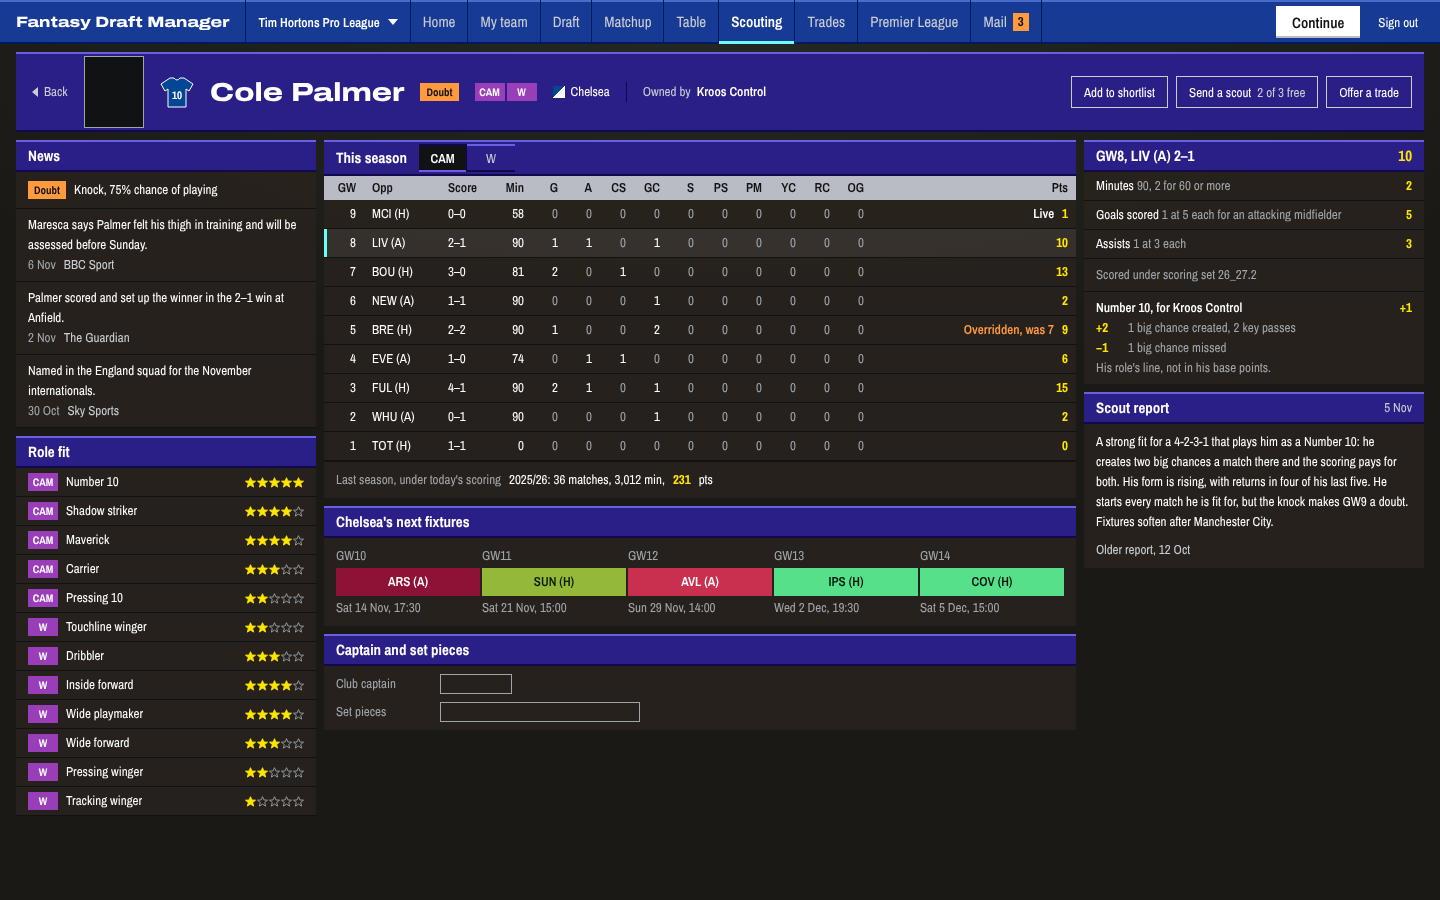
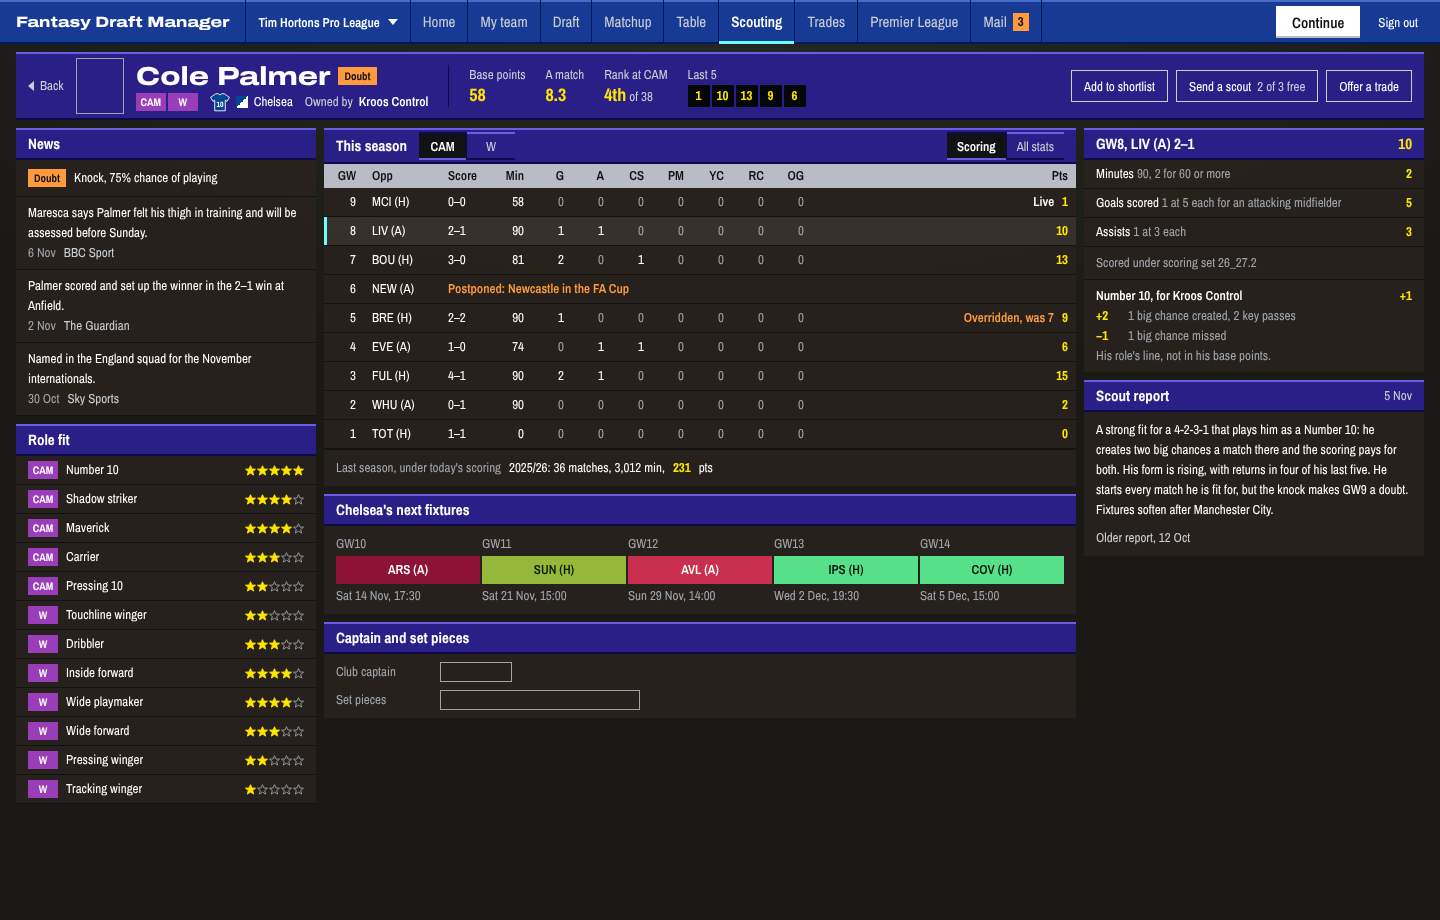
docs: the player card's portrait, figures, and a game log by position (#1302)
* docs: the player card's portrait is FPL's photo of him, once its terms allow it

Craig, 7 Nov 2026: "Card a approved", of FPL's photos, our own drawn portraits or none.

Claude-Session: https://claude.ai/code/session_014rg9sKb34y75VrzJmAWJzy

* docs: the approved player card gets figures by his name, a game log by position and a postponed week's row

Craig, 7 Nov 2026: "Your call on design, il approve, its a good base", and "just
common sense, so strikers don't see CS". Claude chose idea A.

Claude-Session: https://claude.ai/code/session_014rg9sKb34y75VrzJmAWJzy

---------

diff --git a/docs/design/approved/player-card/PlayerCard.dc.html b/docs/design/approved/player-card/PlayerCard.dc.html
@@ -2,7 +2,7 @@
 <html lang="en">
 <head>
 <meta charset="utf-8">
-<title>Player card, Palmer, another team's, scouted</title>
+<title>Player card ideas A</title>
 <script src="./support.js"></script>
 </head>
 <body>
@@ -30,7 +30,7 @@ button:focus-visible,a:focus-visible{outline:2px solid #6bfdfa;outline-offset:2p
 .fig{color:#ffe600;font-weight:700}
 </style>
 </helmet>
-<div style="min-height: 900px; background-color: #1b1916; background-image: radial-gradient(ellipse 90% 60% at 50% 0%, rgba(70, 96, 84, 0.22), rgba(70, 96, 84, 0) 70%); font-family: 'Archivo Narrow', 'Arial Narrow', sans-serif; font-size: 13px; line-height: 20px; color: #ffffff; font-variant-numeric: tabular-nums">
+<div style="min-height: 920px; background-color: #1b1916; background-image: radial-gradient(ellipse 90% 60% at 50% 0%, rgba(70, 96, 84, 0.22), rgba(70, 96, 84, 0) 70%); font-family: 'Archivo Narrow', 'Arial Narrow', sans-serif; font-size: 13px; line-height: 20px; color: #ffffff; font-variant-numeric: tabular-nums">
 
 <header style="background: #173a94; box-shadow: inset 0 2px 0 #4a6cc8, inset 0 -2px 0 #001a5e; display: flex; flex-wrap: wrap; align-items: stretch; min-height: 44px; padding: 0 16px">
   <div class="disp" style="display: flex; align-items: center; font-size: 15px; padding-right: 16px">Fantasy Draft Manager</div>
@@ -51,16 +51,27 @@ button:focus-visible,a:focus-visible{outline:2px solid #6bfdfa;outline-offset:2p
 
 <main style="max-width: 1440px; margin: 0 auto; padding: 8px 16px 16px; box-sizing: border-box; display: flex; flex-direction: column; gap: 8px">
 
-  <!-- Title plate: who he is, whose he is, and what you can do with him -->
-  <div style="background: #2a1f86; box-shadow: inset 0 2px 0 #6a5fe0, inset 0 -2px 0 #110a4a; display: flex; flex-wrap: wrap; align-items: center; gap: 8px 16px; padding: 8px 12px 8px 16px; min-height: 52px; box-sizing: border-box">
+  <!-- Title plate: one tight row. Back, his portrait, his name over the facts line, your actions on the right -->
+  <div style="background: #2a1f86; box-shadow: inset 0 2px 0 #6a5fe0, inset 0 -2px 0 #110a4a; display: flex; flex-wrap: wrap; align-items: center; gap: 8px 12px; padding: 6px 12px; box-sizing: border-box">
     <a href="#" style="display: flex; align-items: center; gap: 6px; color: #caced4"><svg width="6" height="10" viewBox="0 0 6 10" aria-hidden="true"><path d="M6 0 L0 5 L6 10 Z" fill="#caced4"></path></svg>Back</a>
-    <span role="img" aria-label="Portrait: not held yet" title="His portrait: the source is Craig's call" style="width: 60px; height: 72px; margin: -4px 0; box-sizing: border-box; border: 1px solid #a1a5ab; background: #111214"></span>
-    <svg role="img" aria-label="Chelsea shirt, number 10" width="34" height="34" viewBox="0 0 34 34"><path d="M10 3 L14 3 Q17 7 20 3 L24 3 L33 9 L29 16 L26 14 L26 32 L8 32 L8 14 L5 16 L1 9 Z" fill="#034694" stroke="#ffffff" stroke-width="1"></path><text x="17" y="24" text-anchor="middle" font-family="Archivo Narrow, sans-serif" font-size="11" font-weight="700" fill="#ffffff">10</text></svg>
-    <h1 class="disp" style="margin: 0; font-size: 26px; line-height: 32px">Cole Palmer</h1>
-    <span class="chip" style="min-width: 0; padding: 0 6px; background: #ff9b3d; color: #111214">Doubt</span>
-    <span style="display: flex; gap: 2px"><span class="chip" style="background: #9a3db8; color: #ffffff">CAM</span><span class="chip" style="background: #9a3db8; color: #ffffff">W</span></span>
-    <span style="display: flex; align-items: center; gap: 6px"><span role="img" aria-label="Chelsea" style="width: 12px; height: 12px; background: linear-gradient(135deg, #034694 50%, #ffffff 50%)"></span>Chelsea</span>
-    <span style="display: flex; align-items: center; gap: 6px; padding-left: 16px; border-left: 1px solid #110a4a"><span style="color: #caced4">Owned by</span><a href="#" style="font-weight: 600">Kroos Control</a></span>
+    <span role="img" aria-label="Cole Palmer's portrait: not held yet" title="FPL's photo of him, once its terms allow it (#79)" style="width: 48px; height: 56px; box-sizing: border-box; border: 1px solid #a1a5ab"></span>
+    <div style="display: flex; flex-direction: column; min-width: 0">
+      <div style="display: flex; align-items: center; gap: 8px">
+        <h1 class="disp" style="margin: 0; font-size: 26px; line-height: 32px">Cole Palmer</h1>
+        <span class="chip" style="min-width: 0; padding: 0 6px; background: #ff9b3d; color: #111214">Doubt</span>
+      </div>
+      <div style="display: flex; flex-wrap: wrap; align-items: center; gap: 4px 12px">
+        <span style="display: flex; gap: 2px"><span class="chip" style="background: #9a3db8; color: #ffffff">CAM</span><span class="chip" style="background: #9a3db8; color: #ffffff">W</span></span>
+        <span style="display: flex; align-items: center; gap: 6px"><svg role="img" aria-label="Chelsea shirt, number 10" width="20" height="20" viewBox="0 0 34 34"><path d="M10 3 L14 3 Q17 7 20 3 L24 3 L33 9 L29 16 L26 14 L26 32 L8 32 L8 14 L5 16 L1 9 Z" fill="#034694" stroke="#ffffff" stroke-width="1.5"></path><text x="17" y="25" text-anchor="middle" font-family="Archivo Narrow, sans-serif" font-size="13" font-weight="700" fill="#ffffff">10</text></svg><span role="img" aria-label="Chelsea" style="width: 12px; height: 12px; background: linear-gradient(135deg, #034694 50%, #ffffff 50%)"></span>Chelsea</span>
+        <span style="display: flex; align-items: center; gap: 6px"><span style="color: #caced4">Owned by</span><a href="#" style="font-weight: 600">Kroos Control</a></span>
+      </div>
+    </div>
+    <dl style="margin: 0 0 0 8px; display: flex; gap: 20px; padding-left: 20px; border-left: 1px solid #110a4a">
+      <div><dt style="color: #caced4">Base points</dt><dd style="margin: 0" class="fig"><span style="font-size: 18px">58</span></dd></div>
+      <div><dt style="color: #caced4">A match</dt><dd style="margin: 0" class="fig"><span style="font-size: 18px">8.3</span></dd></div>
+      <div><dt style="color: #caced4">Rank at CAM</dt><dd style="margin: 0"><span class="fig" style="font-size: 18px">4th</span> <span style="color: #caced4">of 38</span></dd></div>
+      <div><dt style="color: #caced4">Last 5</dt><dd style="margin: 0; display: flex; gap: 2px"><sc-for list="{{ form }}" as="f" hint-placeholder-count="5"><span style="min-width: 22px; height: 22px; text-align: center; line-height: 22px; background: #050608; color: #ffe600; font-weight: 700">{{f}}</span></sc-for></dd></div>
+    </dl>
     <div style="margin-left: auto; display: flex; flex-wrap: wrap; align-items: center; gap: 8px">
       <button class="sec">Add to shortlist</button>
       <button class="sec">Send a scout<span style="color: #caced4">2 of 3 free</span></button>
@@ -108,20 +119,25 @@ button:focus-visible,a:focus-visible{outline:2px solid #6bfdfa;outline-offset:2p
           <button class="key" role="radio" aria-checked="true">CAM</button>
           <button class="key" role="radio" aria-checked="false" style="border-right: 0">W</button>
         </span></span>
+        <span role="radiogroup" aria-label="Columns" style="display: flex">
+          <button class="key" role="radio" aria-checked="true">Scoring</button>
+          <button class="key" role="radio" aria-checked="false" style="border-right: 0">All stats</button>
+        </span>
       </div>
       <table class="tb" aria-label="Palmer's matches this season, newest first: his stats in each scoring category and his base points as an attacking midfielder" style="width: 100%; border-collapse: collapse; table-layout: fixed">
-        <colgroup><col style="width: 40px"><col style="width: 76px"><col style="width: 48px"><col style="width: 44px"><sc-for list="{{ cols }}" as="c" hint-placeholder-count="10"><col style="width: 34px"></sc-for><col></colgroup>
+        <colgroup><col style="width: 40px"><col style="width: 76px"><col style="width: 48px"><col style="width: 44px"><sc-for list="{{ cols }}" as="c" hint-placeholder-count="7"><col style="width: 40px"></sc-for><col></colgroup>
         <thead><tr><th style="text-align: right">GW</th><th>Opp</th><th>Score</th><th style="text-align: right" title="Minutes">Min</th><sc-for list="{{ cols }}" as="c" hint-placeholder-count="10"><th style="text-align: right" title="{{c.name}}">{{c.code}}</th></sc-for><th style="text-align: right">Pts</th></tr></thead>
         <tbody>
           <sc-for list="{{ matches }}" as="m" hint-placeholder-count="9">
-            <tr aria-selected="{{m.selected}}" style="border-bottom: 1px solid #111214; background: {{m.bg}}; box-shadow: {{m.edge}}">
+            <sc-if value="{{ m.gap }}" hint-placeholder-val="{{ false }}"><tr style="border-bottom: 1px solid #111214"><td style="text-align: right">{{m.gw}}</td><td>{{m.opp}}</td><td colspan="10" style="color: #ff9b3d; font-weight: 600">{{m.gap}}</td></tr></sc-if>
+            <sc-if value="{{ m.played }}" hint-placeholder-val="{{ true }}"><tr aria-selected="{{m.selected}}" style="border-bottom: 1px solid #111214; background: {{m.bg}}; box-shadow: {{m.edge}}">
               <td style="text-align: right">{{m.gw}}</td>
               <td>{{m.opp}}</td>
               <td>{{m.score}}</td>
               <td style="text-align: right">{{m.min}}</td>
               <sc-for list="{{ m.stats }}" as="v" hint-placeholder-count="10"><td style="text-align: right; color: {{v.ink}}">{{v.n}}</td></sc-for>
               <td style="text-align: right" title="{{m.title}}"><span style="color: {{m.noteInk}}; font-weight: 600; margin-right: 8px">{{m.note}}</span><span class="fig">{{m.pts}}</span></td>
-            </tr>
+            </tr></sc-if>
           </sc-for>
         </tbody>
       </table>
@@ -180,7 +196,7 @@ button:focus-visible,a:focus-visible{outline:2px solid #6bfdfa;outline-offset:2p
 </main>
 </div>
 </x-dc>
-<script type="text/x-dc" data-dc-script data-props='{"$preview":{"width":1440,"height":900}}'>
+<script type="text/x-dc" data-dc-script data-props='{"$preview":{"width":1440,"height":920}}'>
 class Component extends DCLogic {
   renderVals() {
     const MENU = ['Home', 'My team', 'Draft', 'Matchup', 'Table', 'Scouting', 'Trades', 'Premier League', 'Mail'];
@@ -194,20 +210,25 @@ class Component extends DCLogic {
       { text: 'Palmer scored and set up the winner in the 2–1 win at Anfield.', date: '2 Nov', source: 'The Guardian' },
       { text: 'Named in the England squad for the November internationals.', date: '30 Oct', source: 'Sky Sports' }
     ];
-    const cols = [['G', 'Goals scored'], ['A', 'Assists'], ['CS', 'Clean sheets'], ['GC', 'Goals conceded'], ['S', 'Saves'], ['PS', 'Penalties saved'], ['PM', 'Penalties missed'], ['YC', 'Yellow cards'], ['RC', 'Red cards'], ['OG', 'Own goals']].map(([code, name]) => ({ code, name }));
+    // The columns are the categories that score at the position the switch is on, under the site's set:
+    // common sense too: an attacking midfielder's leave out goals conceded, saves and penalties saved, which score him nothing.
+    const ALL = [['G', 'Goals scored'], ['A', 'Assists'], ['CS', 'Clean sheets'], ['GC', 'Goals conceded'], ['S', 'Saves'], ['PS', 'Penalties saved'], ['PM', 'Penalties missed'], ['YC', 'Yellow cards'], ['RC', 'Red cards'], ['OG', 'Own goals']];
+    const SCORES_AT_CAM = ['G', 'A', 'CS', 'PM', 'YC', 'RC', 'OG'];
+    const keep = ALL.map(([code], i) => SCORES_AT_CAM.includes(code) ? i : -1).filter((i) => i >= 0);
+    const cols = keep.map((i) => ({ code: ALL[i][0], name: ALL[i][1] }));
     // gw, opponent, score, min, [G A CS GC S PS PM YC RC OG], note, pts, note colour
     const M = [
       [9, 'MCI (H)', '0–0', '58', [0, 0, 0, 0, 0, 0, 0, 0, 0, 0], 'Live', '1', '#ffffff'],
       [8, 'LIV (A)', '2–1', '90', [1, 1, 0, 1, 0, 0, 0, 0, 0, 0], '', '10', ''],
       [7, 'BOU (H)', '3–0', '81', [2, 0, 1, 0, 0, 0, 0, 0, 0, 0], '', '13', ''],
-      [6, 'NEW (A)', '1–1', '90', [0, 0, 0, 1, 0, 0, 0, 0, 0, 0], '', '2', ''],
+      [6, 'NEW (A)', '', '', [0, 0, 0, 0, 0, 0, 0, 0, 0, 0], 'Postponed: Newcastle in the FA Cup', '', ''],
       [5, 'BRE (H)', '2–2', '90', [1, 0, 0, 2, 0, 0, 0, 0, 0, 0], 'Overridden, was 7', '9', '#ff9b3d'],
       [4, 'EVE (A)', '1–0', '74', [0, 1, 1, 0, 0, 0, 0, 0, 0, 0], '', '6', ''],
       [3, 'FUL (H)', '4–1', '90', [2, 1, 0, 1, 0, 0, 0, 0, 0, 0], '', '15', ''],
       [2, 'WHU (A)', '0–1', '90', [0, 0, 0, 1, 0, 0, 0, 0, 0, 0], '', '2', ''],
       [1, 'TOT (H)', '1–1', '0', [0, 0, 0, 0, 0, 0, 0, 0, 0, 0], '', '0', '']
     ];
-    const matches = M.map(([gw, opp, score, min, st, note, pts, noteInk]) => ({ gw, opp, score, min, note, pts, stats: st.map((n) => ({ n, ink: n ? '#ffffff' : '#a1a5ab' })), noteInk: noteInk || '#ffffff', title: note.startsWith('Overridden') ? 'Overridden by the commissioner: the feed gave his assist to Jackson' : '', selected: gw === 8 ? 'true' : 'false', bg: gw === 8 ? 'rgba(255, 255, 255, 0.07)' : 'transparent', edge: gw === 8 ? 'inset 3px 0 0 #6bfdfa' : 'none' }));
+    const matches = M.map(([gw, opp, score, min, st, note, pts, noteInk]) => ({ gw, opp, score, min, note, pts, gap: note.startsWith('Postponed') ? note : false, played: !note.startsWith('Postponed'), stats: keep.map((i) => st[i]).map((n) => ({ n, ink: n ? '#ffffff' : '#a1a5ab' })), noteInk: noteInk || '#ffffff', title: note.startsWith('Overridden') ? 'Overridden by the commissioner: the feed gave his assist to Jackson' : '', selected: gw === 8 ? 'true' : 'false', bg: gw === 8 ? 'rgba(255, 255, 255, 0.07)' : 'transparent', edge: gw === 8 ? 'inset 3px 0 0 #6bfdfa' : 'none' }));
     const breakdown = [
       { cat: 'Minutes', why: '90, 2 for 60 or more', pts: '2' },
       { cat: 'Goals scored', why: '1 at 5 each for an attacking midfielder', pts: '5' },
@@ -216,7 +237,7 @@ class Component extends DCLogic {
     const DIFF = [null, ['#57e08a', '#04130a', 'very easy'], ['#93b83a', '#0c1a06', 'easy'], ['#8a90a0', '#08090b', 'average'], ['#c9304f', '#ffffff', 'hard'], ['#8c1236', '#ffffff', 'very hard']];
     const F = [[10, 'ARS', 'A', 5, 'Sat 14 Nov, 17:30'], [11, 'SUN', 'H', 2, 'Sat 21 Nov, 15:00'], [12, 'AVL', 'A', 4, 'Sun 29 Nov, 14:00'], [13, 'IPS', 'H', 1, 'Wed 2 Dec, 19:30'], [14, 'COV', 'H', 1, 'Sat 5 Dec, 15:00']];
     const fixtures = F.map(([gw, opp, side, d, when]) => ({ gw, when, opp: opp + ' (' + side + ')', bg: DIFF[d][0], ink: DIFF[d][1], label: 'GW' + gw + ': ' + opp + ', ' + (side === 'H' ? 'home' : 'away') + ', difficulty ' + d + ' of 5, ' + DIFF[d][2] }));
-    return { menu, news, roles, cols, matches, breakdown, fixtures };
+    return { menu, news, roles, cols, matches, breakdown, fixtures, form: [1, 10, 13, 9, 6] };
   }
 }
 </script>

diff --git a/spec/12-screens.md b/spec/12-screens.md
@@ -78,6 +78,11 @@ homage, simple, in CM's blue, with a top menu. The canvas with every round is
     from the same events Mail files.
 - **The player card** is its own page, with Back, opened from any player's name anywhere (25 Oct
   2026). It holds:
+  - his portrait, FPL's own photo of him (Craig, 7 Nov 2026: "a", of FPL's photos, our own drawn
+    portraits or none), once #79 finds FPL's terms allow it;
+  - beside his name, his base points this season (the same total Scouting shows), his points a
+    match, his rank at the position the switch is on, and his last five matches' points (Claude's
+    call, 7 Nov 2026: "Your call on design, il approve");
   - his name, club and positions, who owns him in the league, and FPL's injury news and chance of
     playing, and his three latest news notes (`spec/21`);
   - this season's matches, each broken down by category (`spec/14`), at his base points: "The
@@ -93,12 +98,17 @@ homage, simple, in CM's blue, with a top menu. The canvas with every round is
     position. A player with one position has no switch. Where his team started him, what his role
     did to his points shows on its own line under the match (`spec/05`), never added into his base
     points;
+  - his matches as a game log, as FPL and Fantrax show it: minutes, then a column for each scoring
+    category that scores at the position the switch is on, with common sense (Craig, 7 Nov 2026:
+    "just common sense, so strikers don't see CS"), then his base points; a switch shows every stat
+    we hold instead. A postponed or blank gameweek keeps its row, saying so (Claude's call, 7 Nov
+    2026);
   - one line of last season's totals, under the site's scoring as it stands (`spec/14`);
   - his role stars and the manager's latest scout report on him, where the manager can see them
     (`spec/19`), and the captain and set-piece hints `spec/17` adds after the mini beta;
   - his club's next few Premier League fixtures;
   - the actions that apply to him and the manager: shortlist, send a scout, claim or drop, offer a
-    trade.
+    trade. `S12.1`
 - **Trades** shows offers to and from the manager, with accept, reject and counter, and makes an
   offer; its rules are in `spec/08`. It follows `docs/design/plate.md` (25 Oct 2026).
 - The player card follows `docs/design/plate.md`, and comes by the mini beta; its stars and report

diff --git a/docs/design/approved/player-card/README.md b/docs/design/approved/player-card/README.md
@@ -6,7 +6,7 @@ Route: `/leagues/$leagueId/players/$playerCode`, checked on
 ## The picture
 
 - `1440.png`: Cole Palmer's card as a manager sees it: another team's player whom he has scouted, with
-  GW8 selected so its breakdown shows on the right.
+  GW8 selected so its breakdown shows on the right, and GW6 postponed. Board "idea A" on the canvas.
 
 ## Approved
 
@@ -17,6 +17,11 @@ row". His "looks good" took Claude's recommendations on the four calls below.
 
 Scaling to other leagues is still to work out: the card names a Premier League club, its fixtures and
 FPL's news, and another league's would read its own competition's.
+
+Then, 7 Nov 2026, after research into other fantasy sites (FPL, Fantrax, ESPN, Yahoo, Sleeper) and two
+drawn ideas: "Your call on design, il approve, its a good base". Claude chose idea A: figures beside
+the name, a postponed week kept as a row, and a Scoring | All stats switch on the game log. The game
+log's columns follow the position switch, with common sense ("so strikers don't see CS").
 
 ## The Football Manager idea
 
@@ -34,6 +39,8 @@ their colours.
   offers Drop (`spec/08`, `spec/12`). Send a scout shows how many of the team's three are free.
 - The position keys (CAM, W): price every match at that position, back to front, opening on the first.
   A player with one position has none (`spec/12`).
+- Scoring | All stats: the game log shows the categories that score at his position, or every stat
+  we hold.
 - A match row: selects it, and its breakdown shows at the top of the right column. The newest match is
   selected when the card opens.
 - A short code in the table's head (G, A, CS…): its full name on hover (`spec/14`, On screen). The
@@ -50,7 +57,7 @@ Each shows in its place and size until its data comes.
 
 | Placeholder | Waits for | Where it's tracked |
 |---|---|---|
-| The portrait | where portraits come from: FPL's photos, our own drawn ones, or none | Craig's call, asked 7 Nov 2026 |
+| The portrait | FPL's photo of him (Craig, 7 Nov 2026: "a"), once FPL's terms allow it | #79, `spec/12` (S12.1) |
 | Captain and set pieces | the hints after the mini beta | `spec/17`, Both |
 | Role fit and the scout report | scouts: hidden for a player you haven't scouted | #375 |
 | News notes | the news job | `spec/21` |
